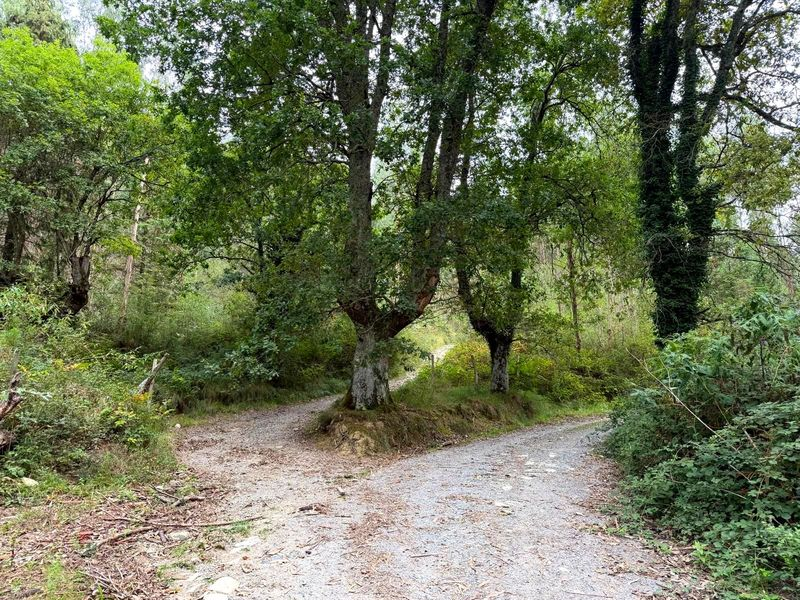
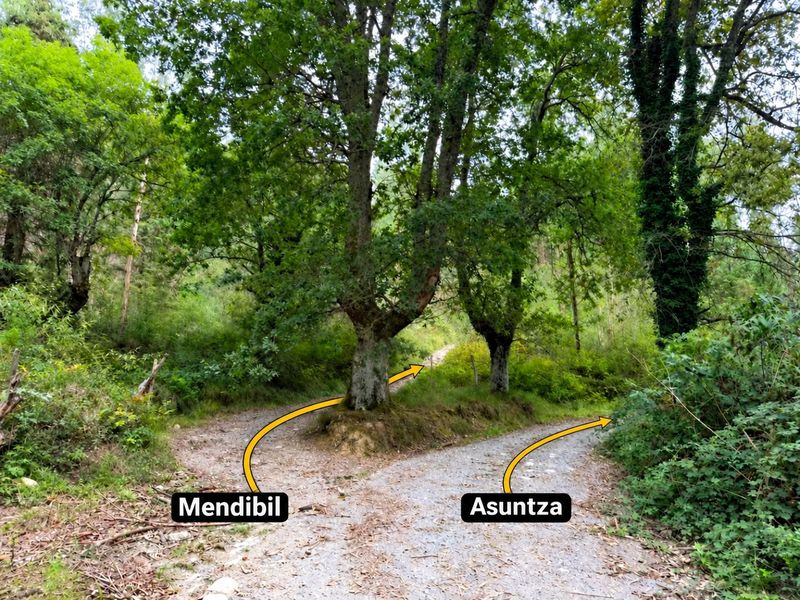
Mendibil: la foto 8 del cruce pasa a la que lleva las flechas a Mendibil y Asuntza
Claude-Session: https://claude.ai/code/session_01JEFdnoM2iPPM2qgJd5Q3FH

diff --git a/mendibil.html b/mendibil.html
@@ -160,7 +160,7 @@
       <span class="photo-zoom">⤢</span>
     </button>
     <button type="button" class="gallery-item" data-lightbox-src="img/mendibil-08.webp">
-      <picture><source srcset="img/mendibil-08-800.webp 800w, img/mendibil-08.webp 1600w" sizes="(min-width:1024px) 520px, (min-width:768px) 350px, 45vw" type="image/webp"><img src="img/mendibil-08-800.jpg" alt="Bifurcaci&oacute;n de la pista junto a un roble grande con las ra&iacute;ces al aire, rodeada de bosque" loading="lazy" decoding="async"></picture>
+      <picture><source srcset="img/mendibil-08-800.webp 800w, img/mendibil-08.webp 1448w" sizes="(min-width:1024px) 520px, (min-width:768px) 350px, 45vw" type="image/webp"><img src="img/mendibil-08-800.jpg" alt="Bifurcaci&oacute;n de la pista junto a un roble grande con las ra&iacute;ces al aire, rodeada de bosque, con flechas hacia Mendibil y Asuntza" loading="lazy" decoding="async"></picture>
       <span class="photo-zoom">⤢</span>
     </button>
     <button type="button" class="gallery-item" data-lightbox-src="img/mendibil-09.webp">

diff --git a/src/mendibil_tail.html b/src/mendibil_tail.html
@@ -92,7 +92,7 @@
       <span class="photo-zoom">⤢</span>
     </button>
     <button type="button" class="gallery-item" data-lightbox-src="img/mendibil-08.webp">
-      <picture><source srcset="img/mendibil-08-800.webp 800w, img/mendibil-08.webp 1600w" sizes="(min-width:1024px) 520px, (min-width:768px) 350px, 45vw" type="image/webp"><img src="img/mendibil-08-800.jpg" alt="Bifurcaci&oacute;n de la pista junto a un roble grande con las ra&iacute;ces al aire, rodeada de bosque" loading="lazy" decoding="async"></picture>
+      <picture><source srcset="img/mendibil-08-800.webp 800w, img/mendibil-08.webp 1448w" sizes="(min-width:1024px) 520px, (min-width:768px) 350px, 45vw" type="image/webp"><img src="img/mendibil-08-800.jpg" alt="Bifurcaci&oacute;n de la pista junto a un roble grande con las ra&iacute;ces al aire, rodeada de bosque, con flechas hacia Mendibil y Asuntza" loading="lazy" decoding="async"></picture>
       <span class="photo-zoom">⤢</span>
     </button>
     <button type="button" class="gallery-item" data-lightbox-src="img/mendibil-09.webp">

diff --git a/mendibil.eu.html b/mendibil.eu.html
@@ -160,7 +160,7 @@
       <span class="photo-zoom">⤢</span>
     </button>
     <button type="button" class="gallery-item" data-lightbox-src="img/mendibil-08.webp">
-      <picture><source srcset="img/mendibil-08-800.webp 800w, img/mendibil-08.webp 1600w" sizes="(min-width:1024px) 520px, (min-width:768px) 350px, 45vw" type="image/webp"><img src="img/mendibil-08-800.jpg" alt="Pistaren bidegurutzea haritz handi baten ondoan, sustraiak agerian, basoz inguratuta" loading="lazy" decoding="async"></picture>
+      <picture><source srcset="img/mendibil-08-800.webp 800w, img/mendibil-08.webp 1448w" sizes="(min-width:1024px) 520px, (min-width:768px) 350px, 45vw" type="image/webp"><img src="img/mendibil-08-800.jpg" alt="Pistaren bidegurutzea haritz handi baten ondoan, sustraiak agerian, basoz inguratuta, Mendibil eta Asuntzara gezi banarekin" loading="lazy" decoding="async"></picture>
       <span class="photo-zoom">⤢</span>
     </button>
     <button type="button" class="gallery-item" data-lightbox-src="img/mendibil-09.webp">

diff --git a/src/mendibil_tail.eu.html b/src/mendibil_tail.eu.html
@@ -92,7 +92,7 @@
       <span class="photo-zoom">⤢</span>
     </button>
     <button type="button" class="gallery-item" data-lightbox-src="img/mendibil-08.webp">
-      <picture><source srcset="img/mendibil-08-800.webp 800w, img/mendibil-08.webp 1600w" sizes="(min-width:1024px) 520px, (min-width:768px) 350px, 45vw" type="image/webp"><img src="img/mendibil-08-800.jpg" alt="Pistaren bidegurutzea haritz handi baten ondoan, sustraiak agerian, basoz inguratuta" loading="lazy" decoding="async"></picture>
+      <picture><source srcset="img/mendibil-08-800.webp 800w, img/mendibil-08.webp 1448w" sizes="(min-width:1024px) 520px, (min-width:768px) 350px, 45vw" type="image/webp"><img src="img/mendibil-08-800.jpg" alt="Pistaren bidegurutzea haritz handi baten ondoan, sustraiak agerian, basoz inguratuta, Mendibil eta Asuntzara gezi banarekin" loading="lazy" decoding="async"></picture>
       <span class="photo-zoom">⤢</span>
     </button>
     <button type="button" class="gallery-item" data-lightbox-src="img/mendibil-09.webp">

diff --git a/src/i18n/eu.py b/src/i18n/eu.py
@@ -2375,8 +2375,8 @@ MENDIBIL = {
         'alt="Trabakua Mendibilgo ibilbidearen argazki handitua"',
     'alt="Ni&ntilde;o caminando por la senda entre eucaliptos y helechos, con la loma al fondo"':
         'alt="Haur bat bidexkan, eukalipto eta iratzeen artean, muinoa atzean"',
-    'alt="Bifurcaci&oacute;n de la pista junto a un roble grande con las ra&iacute;ces al aire, rodeada de bosque"':
-        'alt="Pistaren bidegurutzea haritz handi baten ondoan, sustraiak agerian, basoz inguratuta"',
+    'alt="Bifurcaci&oacute;n de la pista junto a un roble grande con las ra&iacute;ces al aire, rodeada de bosque, con flechas hacia Mendibil y Asuntza"':
+        'alt="Pistaren bidegurutzea haritz handi baten ondoan, sustraiak agerian, basoz inguratuta, Mendibil eta Asuntzara gezi banarekin"',
     'alt="Senda estrecha subiendo entre helechos y zarzas, con el pinar al fondo"':
         'alt="Bidezidor estua gora, iratzeen eta sasien artean, pinudia atzealdean"',
     'alt="Moj&oacute;n en la cima del Mendibil, con el parque e&oacute;lico y el pueblo al fondo"':
